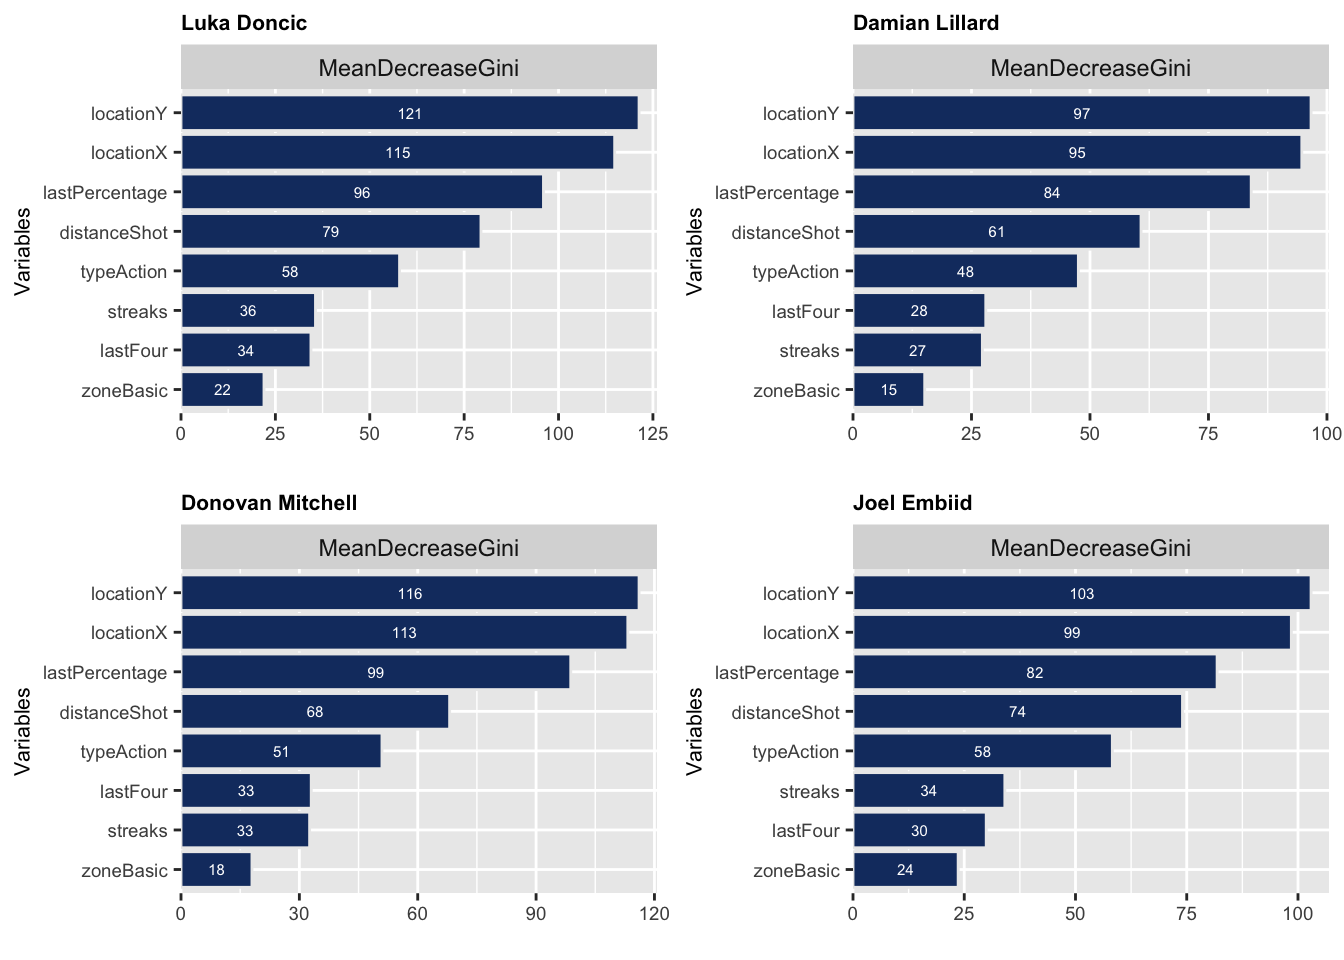
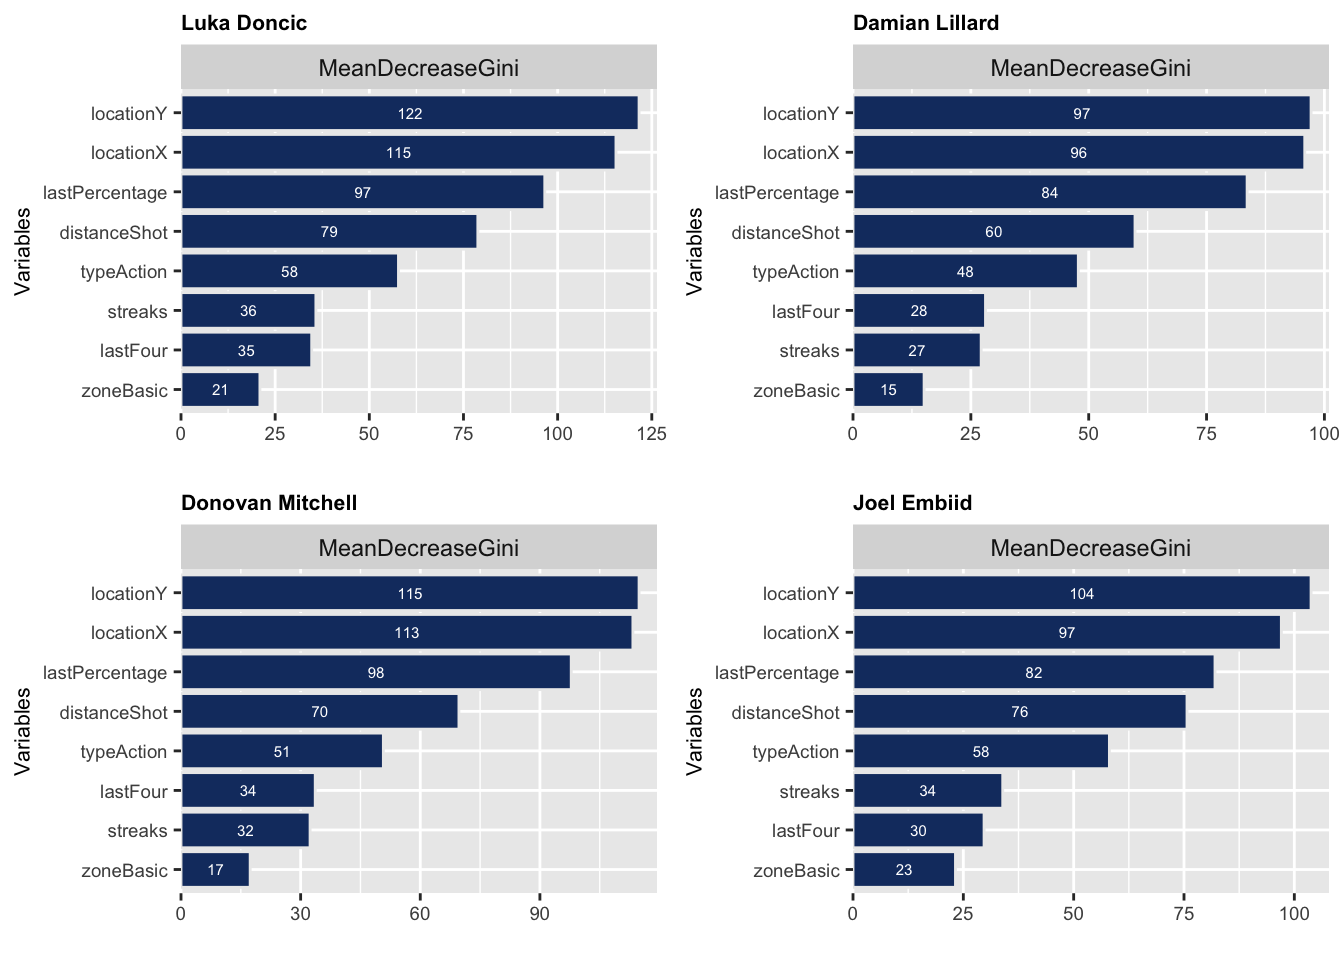
10_29_ver2

diff --git a/docs/posts/HotHand/HotHand.html b/docs/posts/HotHand/HotHand.html
@@ -539,21 +539,21 @@ glm(formula = as.factor(isShotMadeBinary) ~ locationX + locationY +
 
 Coefficients:
                  Estimate Std. Error z value Pr(&gt;|z|)    
-(Intercept)     1.1190077  0.2733987   4.093 4.26e-05 ***
-locationX       0.0003527  0.0009664   0.365    0.715    
-locationY       0.0042144  0.0022926   1.838    0.066 .  
-streaks         0.0632635  0.0541367   1.169    0.243    
-lastFour       -0.3654828  0.4274932  -0.855    0.393    
-lastPercentage -0.0846816  0.5642019  -0.150    0.881    
-distanceShot   -0.1051392  0.0222175  -4.732 2.22e-06 ***
+(Intercept)     1.1157618  0.2732767   4.083 4.45e-05 ***
+locationX       0.0003562  0.0009664   0.369   0.7124    
+locationY       0.0042131  0.0022924   1.838   0.0661 .  
+streaks         0.0610768  0.0540951   1.129   0.2589    
+lastFour       -0.3466513  0.4273905  -0.811   0.4173    
+lastPercentage -0.0934930  0.5642940  -0.166   0.8684    
+distanceShot   -0.1050850  0.0222141  -4.731 2.24e-06 ***
 ---
 Signif. codes:  0 '***' 0.001 '**' 0.01 '*' 0.05 '.' 0.1 ' ' 1
 
 (Dispersion parameter for binomial family taken to be 1)
 
     Null deviance: 1466.7  on 1063  degrees of freedom
-Residual deviance: 1370.8  on 1057  degrees of freedom
-AIC: 1384.8
+Residual deviance: 1370.9  on 1057  degrees of freedom
+AIC: 1384.9
 
 Number of Fisher Scoring iterations: 4</code></pre>
 </div>

diff --git a/docs/Photography.html b/docs/Photography.html
@@ -350,7 +350,7 @@ window.document.addEventListener("DOMContentLoaded", function (event) {
       </div>
   </div>
 </footer>
-<script>var lightboxQuarto = GLightbox({"descPosition":"bottom","closeEffect":"zoom","loop":true,"selector":".lightbox","openEffect":"zoom"});</script>
+<script>var lightboxQuarto = GLightbox({"openEffect":"zoom","closeEffect":"zoom","selector":".lightbox","loop":true,"descPosition":"bottom"});</script>
 
 
 

diff --git a/docs/resume.html b/docs/resume.html
@@ -146,6 +146,7 @@ ul.task-list li input[type="checkbox"] {
 </header>
 
 <p>Although I prefer to write my name as JeongJune, my legal name does not have the letter ‘e’ at the end.</p>
+<p><a href="images/CV_JeongJun Moon.pdf">View Full CV</a></p>
 <iframe width="700" height="600" src="images/CV_JeongJun Moon.pdf">
 </iframe>
 
